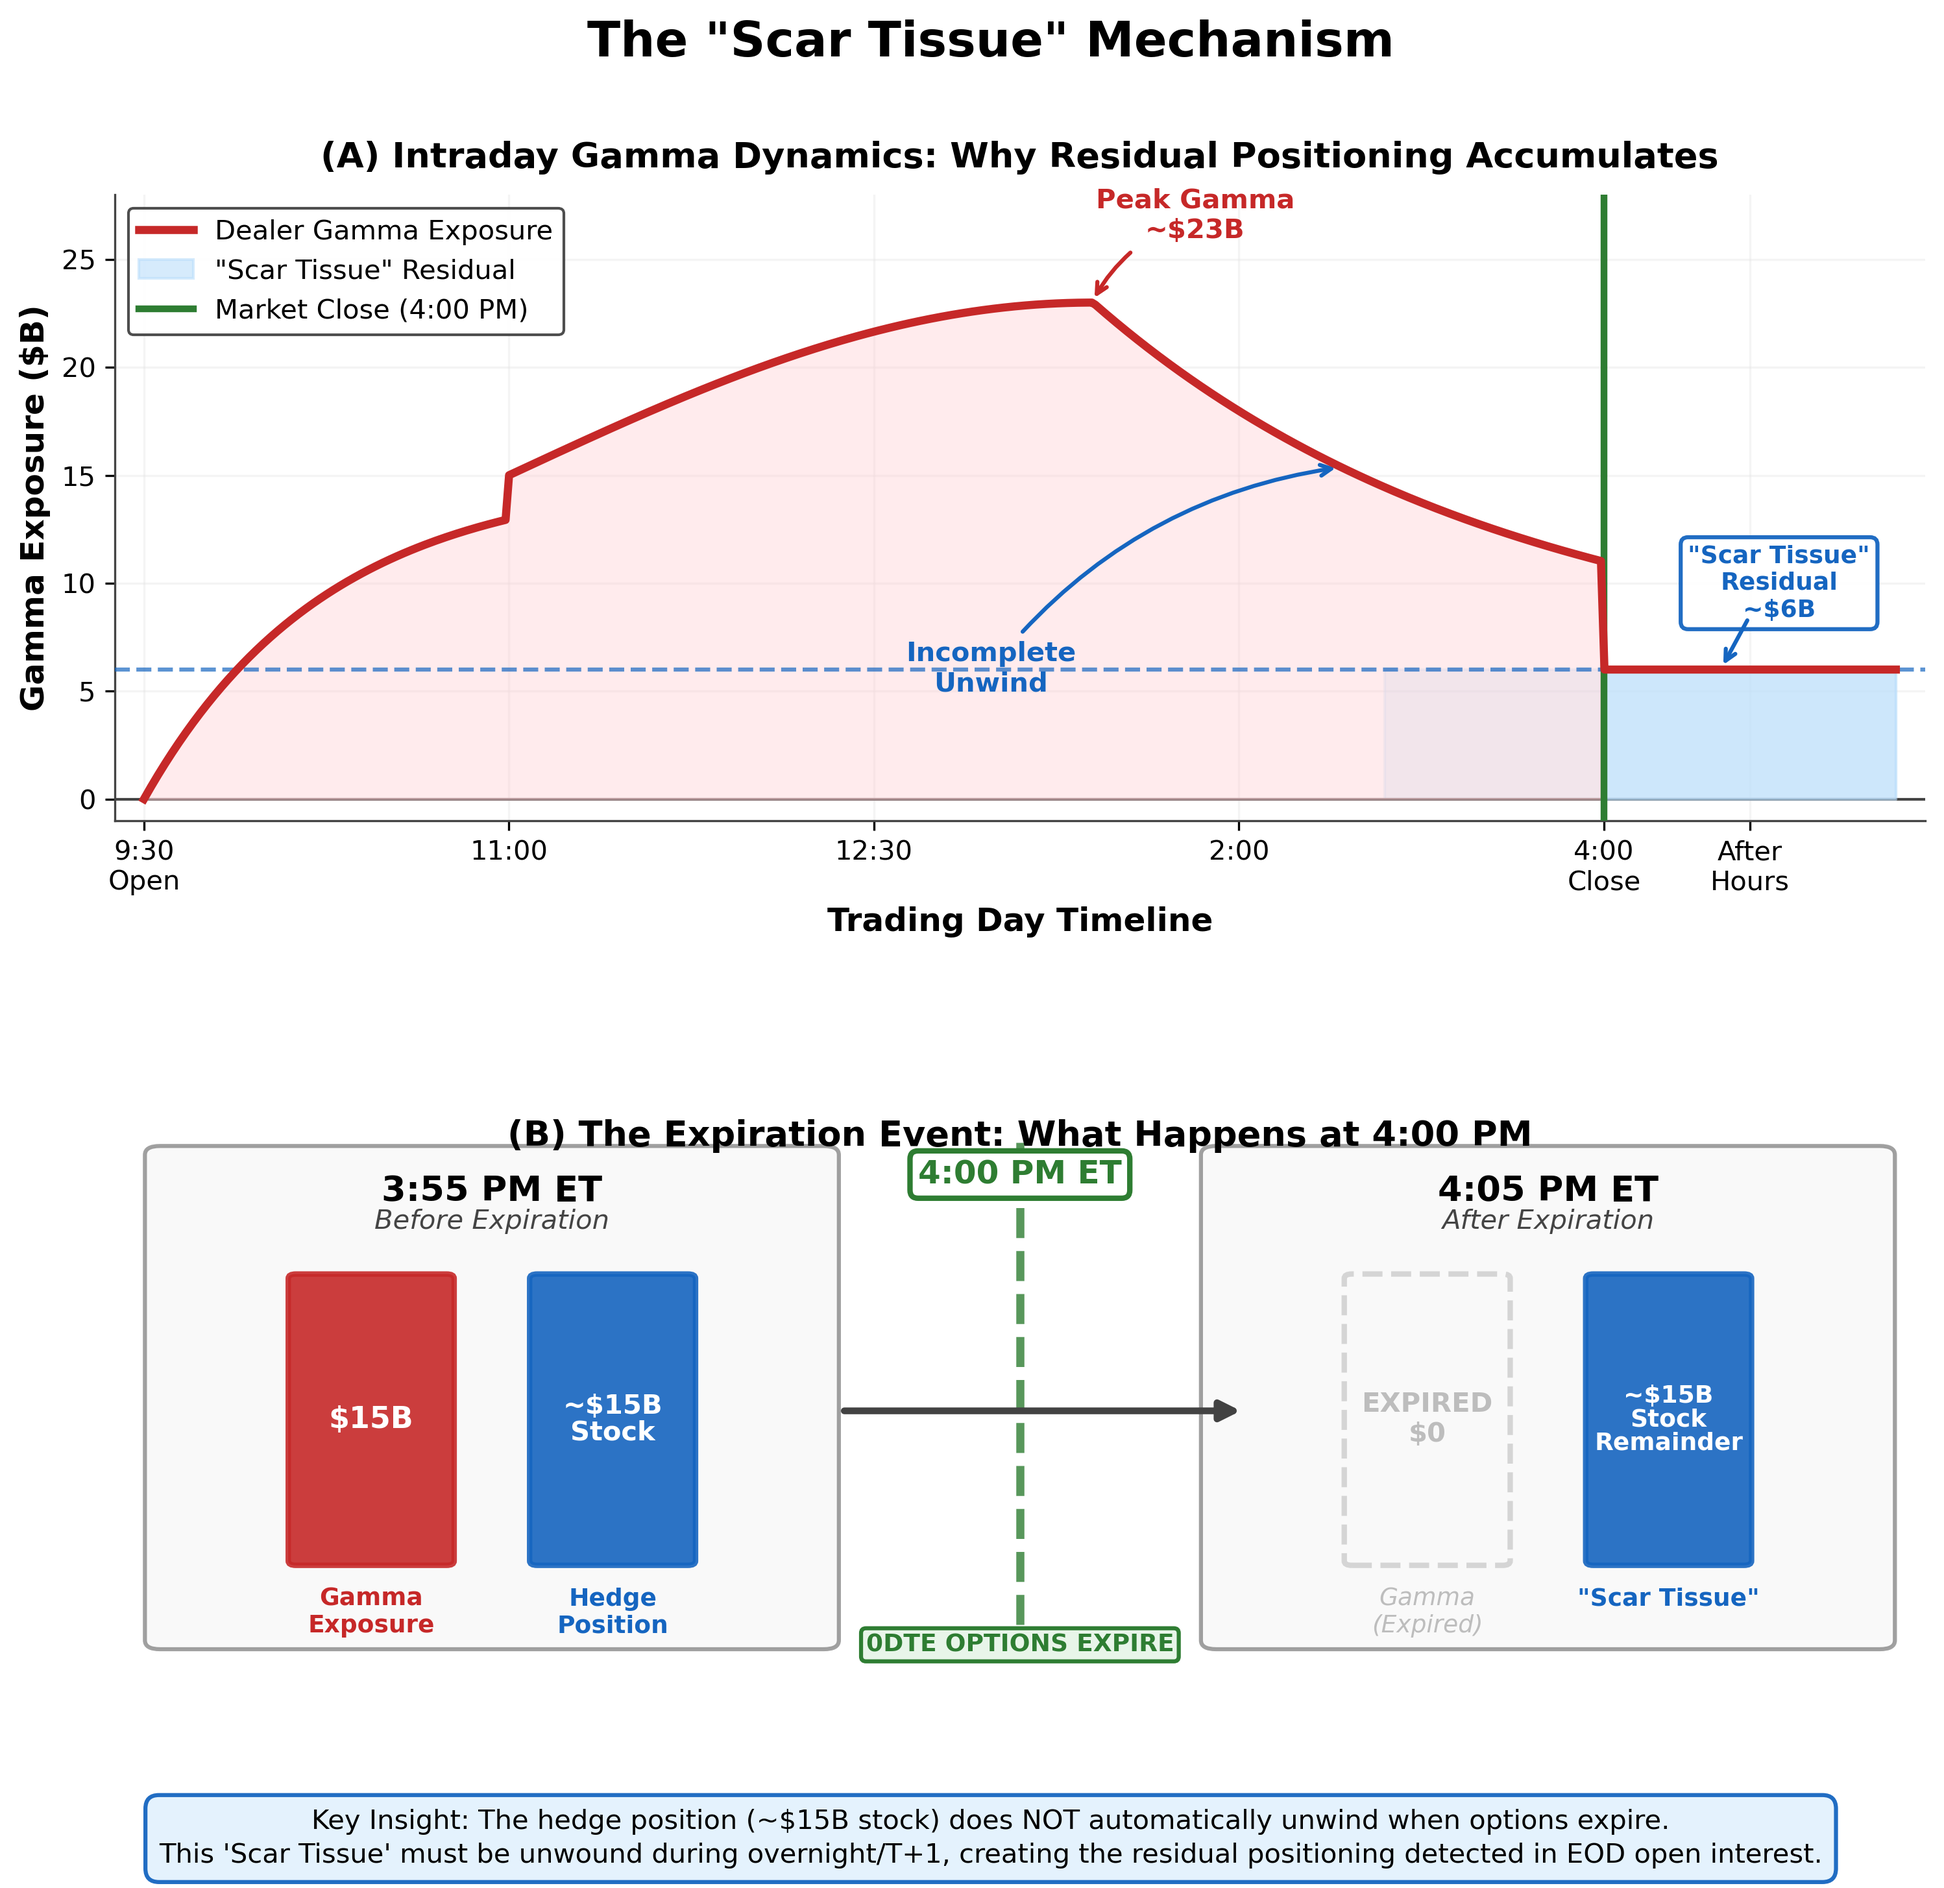
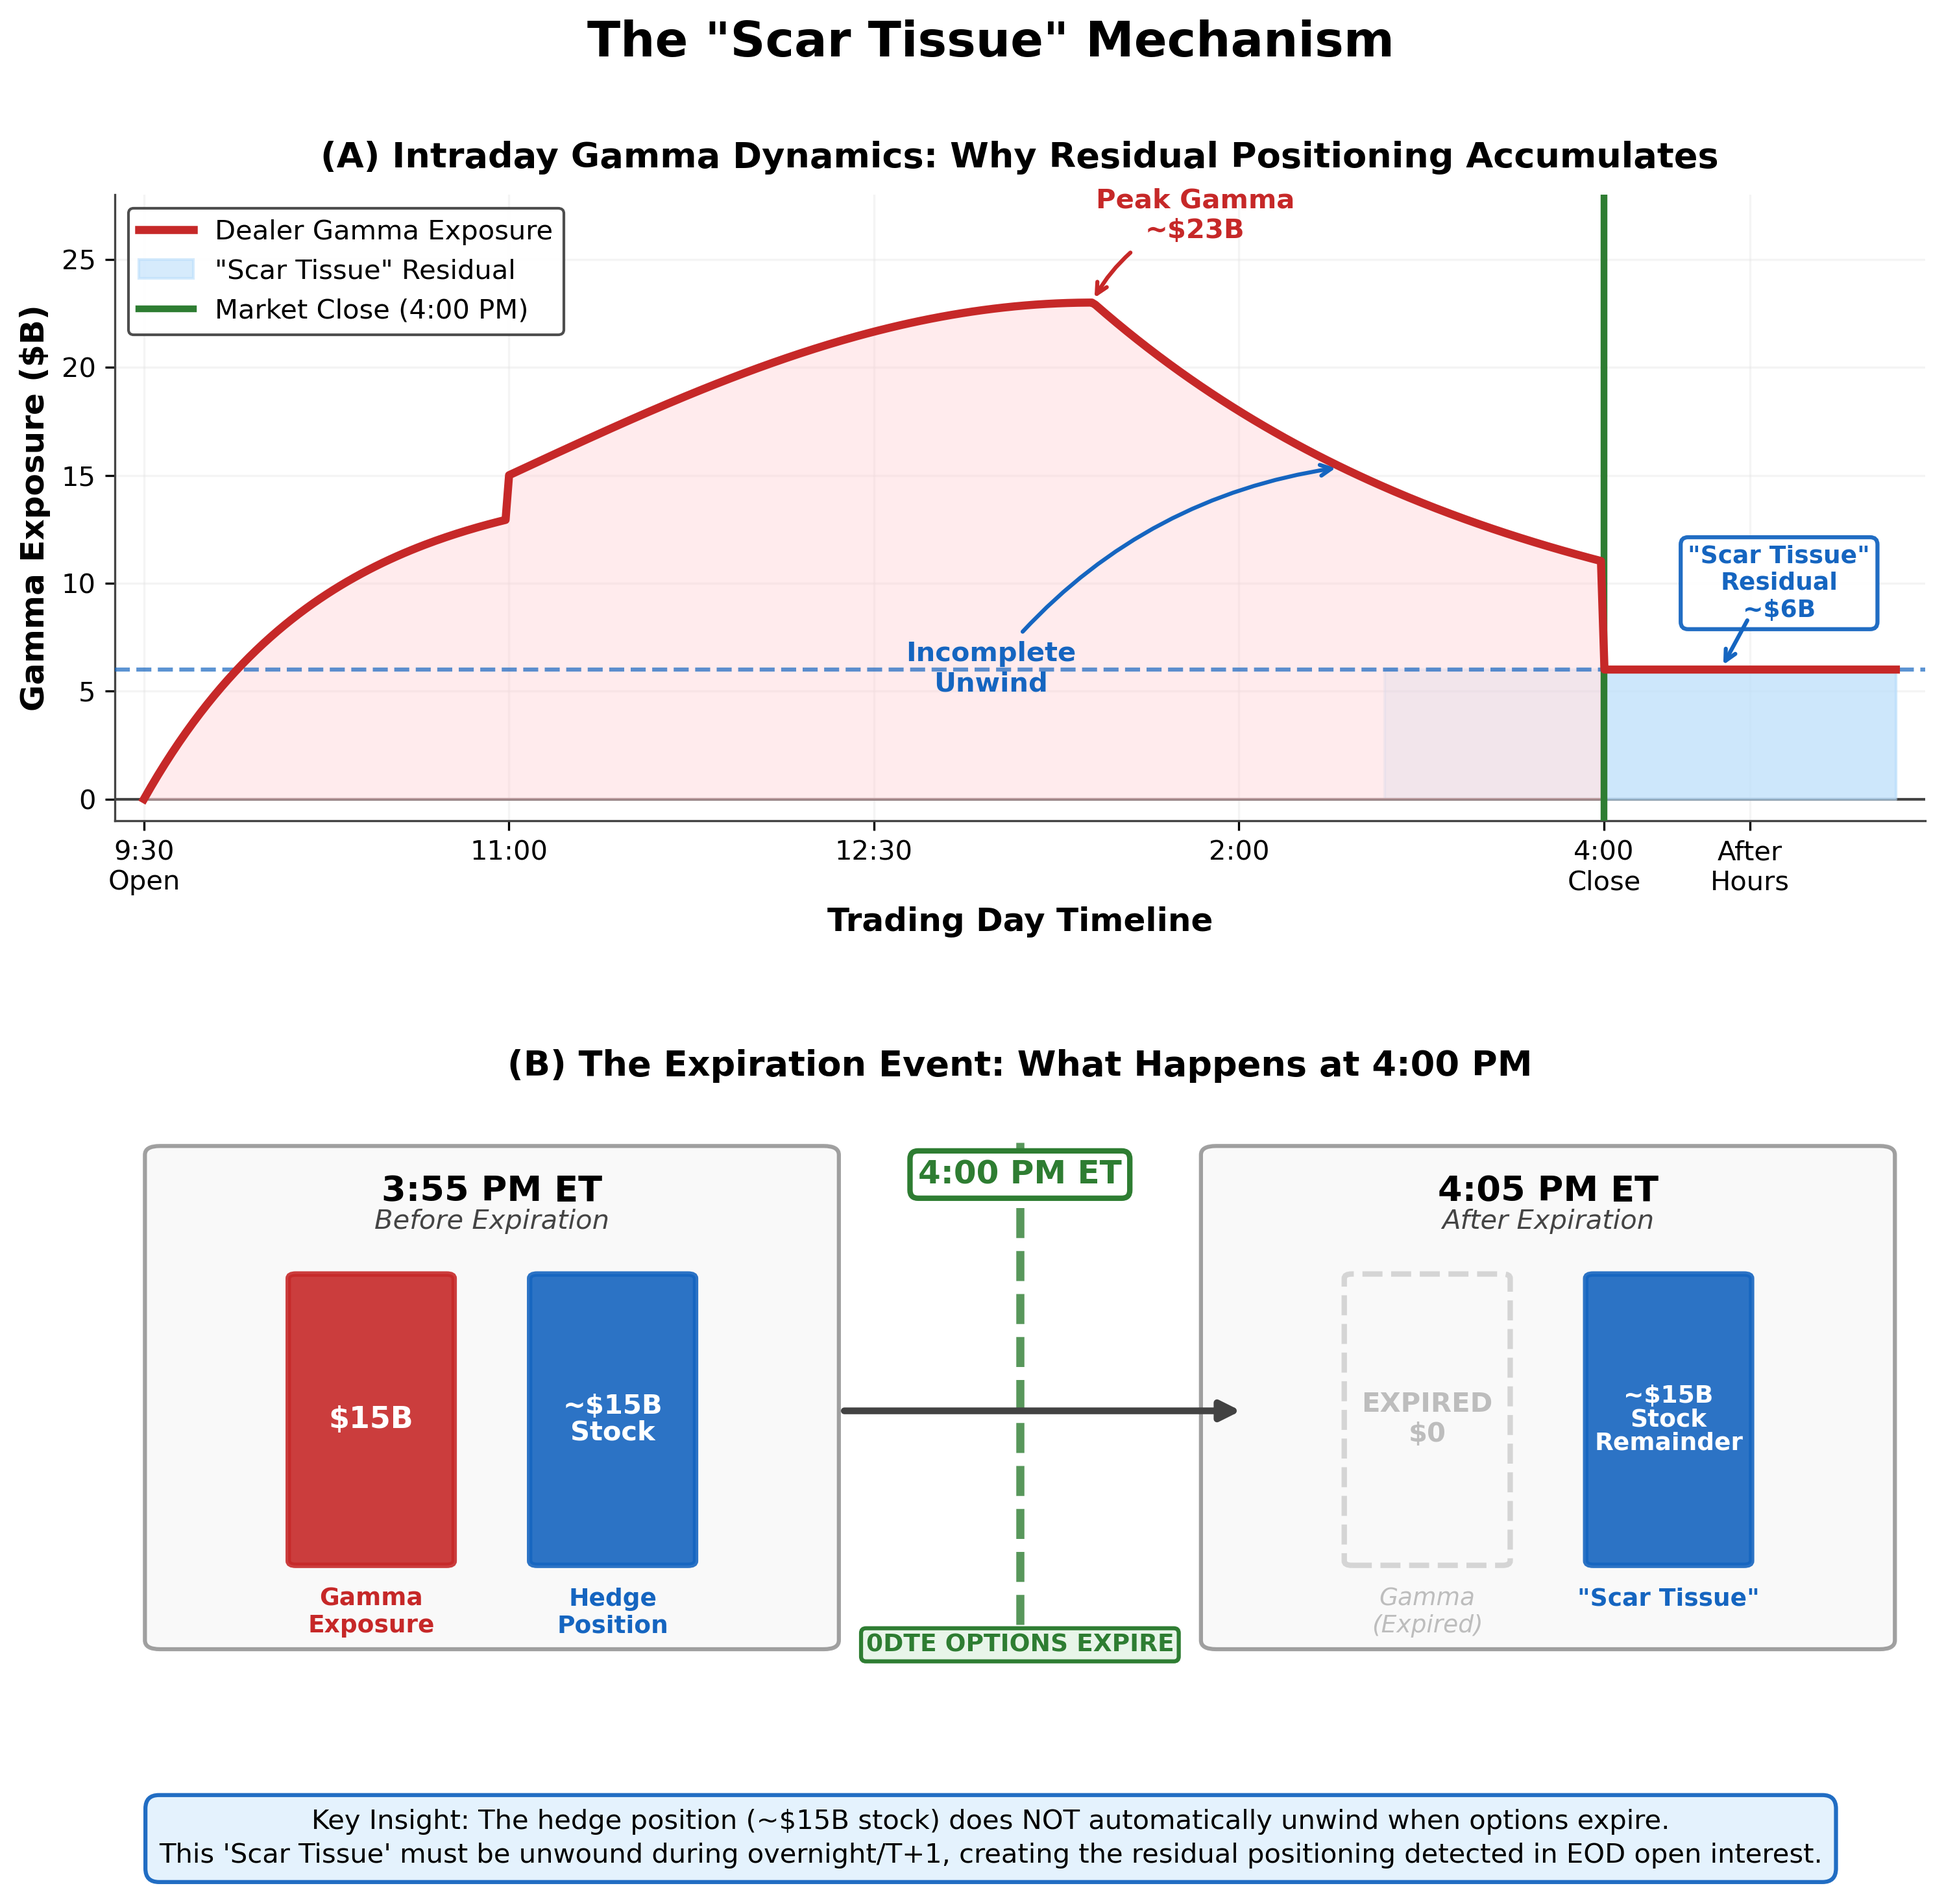
fix(paper2): Move Panel B title up to accommodate taller bounding boxes

Changed region(s): [[0.2483, 0.5567, 0.776, 0.6186]]

diff --git a/docs/papers/paper2/figures/scripts/fig09_scar_tissue.py b/docs/papers/paper2/figures/scripts/fig09_scar_tissue.py
@@ -208,7 +208,7 @@ def create_figure():
     # Panel B title - positioned to avoid overlap with 4:00 PM marker
     ax_schematic.text(
         6,
-        6.5,
+        7.3,
         "(B) The Expiration Event: What Happens at 4:00 PM",
         fontsize=13,
         fontweight="bold",
